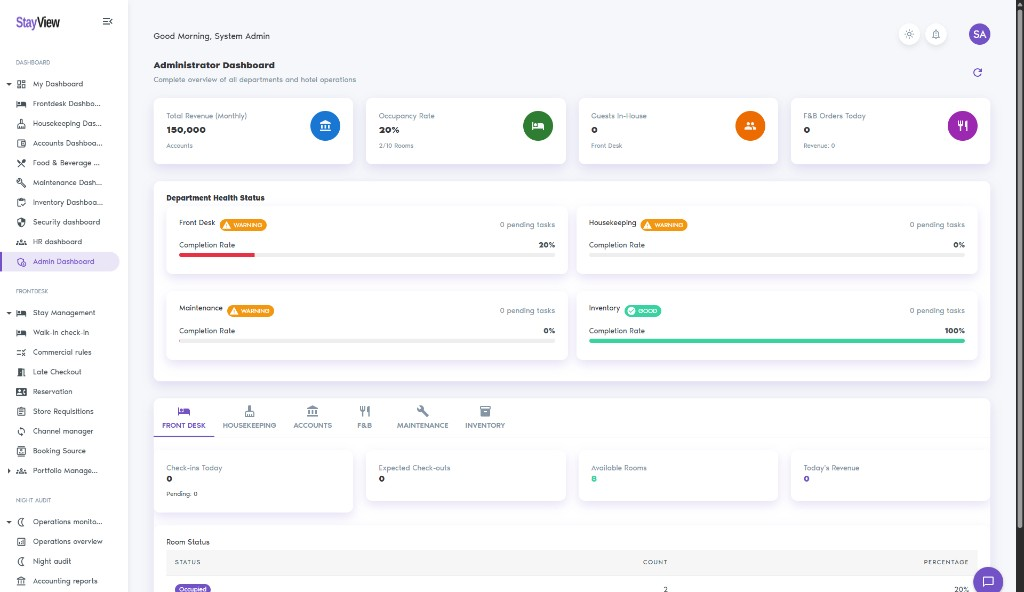
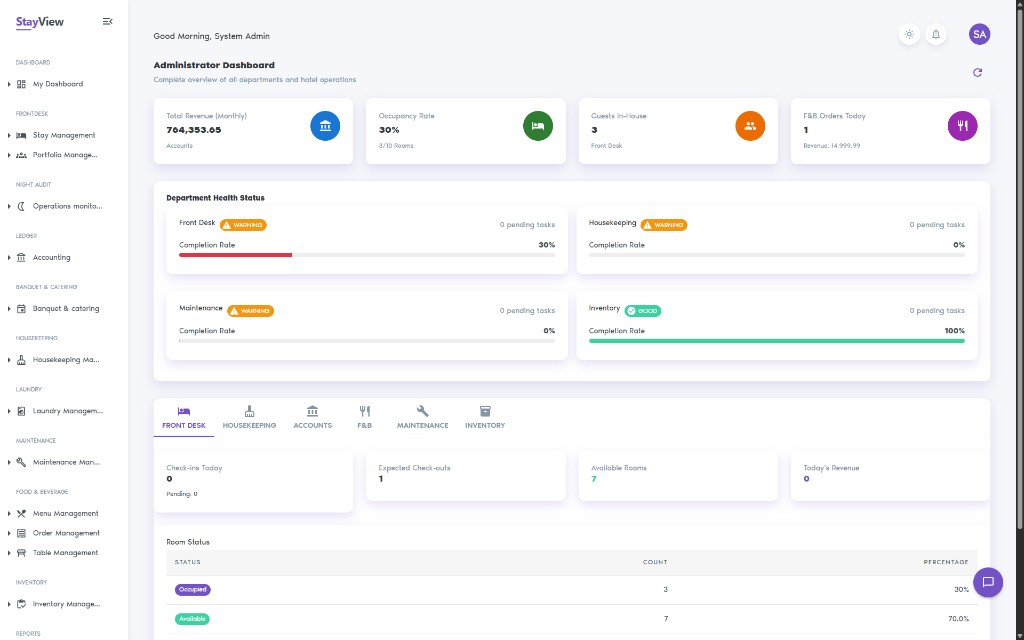
Update admin dashboard screenshot and enhance styling for product stack and hero components
- Replaced the admin dashboard screenshot with a new version for better visual representation.
- Introduced new CSS classes for the hero shot and product stack to improve layout and responsiveness.
- Adjusted dimensions of the admin dashboard image for consistency across components.
- Enhanced the ProductShot component to support image quality settings for better performance.

diff --git a/src/components/home/PlatformChapters.tsx b/src/components/home/PlatformChapters.tsx
@@ -1,5 +1,6 @@
 import Image from "next/image";
 import Link from "next/link";
+import type { CSSProperties } from "react";
 import { productUseCases } from "@/lib/content";
 import { ChannelManagerIllustration } from "@/components/svg/ProductIllustrations";
 import { AnimatedHeadline } from "@/components/ui/AnimatedHeadline";
@@ -10,7 +11,7 @@ const productImages = {
     src: "/screenshots/admin-dashboard.png",
     alt: "StayView administrator dashboard",
     width: 1024,
-    height: 592,
+    height: 640,
   },
   outlet: {
     src: "/screenshots/outlet-pos-bar45.png",
@@ -27,6 +28,8 @@ const productImages = {
 } as const;
 
 export function PlatformChapters() {
+  const total = productUseCases.length;
+
   return (
     <section className="border-b border-border">
       <div className="surface-grid border-b border-border py-20 sm:py-24">
@@ -52,38 +55,36 @@ export function PlatformChapters() {
         </div>
       </div>
 
-      <div>
+      <div className="product-stack">
         {productUseCases.map((product, index) => {
           const photo =
             product.id in productImages
               ? productImages[product.id as keyof typeof productImages]
               : null;
-          const reversed = index % 2 === 1;
-          const ink = index % 2 === 0;
           const chapter = String(index + 1).padStart(2, "0");
-          const textVariant = reversed ? "right" : "left";
-          const frameVariant = reversed ? "left" : "right";
+          const ink = index % 2 === 0;
+          const isLast = index === total - 1;
 
           return (
             <div
               key={product.id}
-              className={`border-b border-border ${
-                ink ? "bg-background" : "bg-surface"
-              }`}
+              className="product-stack-panel"
+              style={
+                {
+                  zIndex: index + 1,
+                  ["--stack-offset"]: `${index * 0.55}rem`,
+                } as CSSProperties
+              }
             >
-              <article className="mx-auto max-w-6xl px-4 py-16 sm:px-6 sm:py-24">
-                <div
-                  className={`grid items-center gap-12 lg:grid-cols-2 lg:gap-20 ${
-                    reversed ? "lg:[direction:rtl]" : ""
-                  }`}
-                >
-                  <Reveal
-                    variant={textVariant}
-                    stagger
-                    className={reversed ? "lg:[direction:ltr]" : ""}
-                  >
-                    <div className="stagger-item flex items-baseline gap-4">
-                      <span className="chapter-mark font-display text-5xl font-bold text-brand/20 sm:text-6xl">
+              <article
+                className={`product-stack-card ${
+                  ink ? "bg-background" : "bg-surface"
+                } ${isLast ? "product-stack-card-last" : ""}`}
+              >
+                <div className="mx-auto grid max-w-6xl items-center gap-10 px-4 py-12 sm:px-6 sm:py-16 lg:grid-cols-2 lg:gap-16 lg:py-20">
+                  <div>
+                    <div className="flex items-baseline gap-4">
+                      <span className="font-display text-5xl font-bold text-brand/20 sm:text-6xl">
                         {chapter}
                       </span>
                       <div>
@@ -97,21 +98,24 @@ export function PlatformChapters() {
                         ) : null}
                       </div>
                     </div>
-                    <h3 className="stagger-item mt-6 font-display text-2xl font-bold tracking-tight sm:text-4xl">
+                    <h3 className="mt-6 font-display text-2xl font-bold tracking-tight sm:text-4xl">
                       {product.tagline}
                     </h3>
-                    <p className="stagger-item mt-4 text-base leading-relaxed text-muted sm:text-lg">
+                    <p className="mt-4 text-base leading-relaxed text-muted sm:text-lg">
                       {product.description}
                     </p>
-                    <ul className="stagger-item mt-8 space-y-3.5">
+                    <ul className="mt-8 space-y-3.5">
                       {product.useCases.slice(0, 5).map((item) => (
-                        <li key={item} className="flex items-start gap-3 text-sm sm:text-[0.95rem]">
+                        <li
+                          key={item}
+                          className="flex items-start gap-3 text-sm sm:text-[0.95rem]"
+                        >
                           <span className="mt-2 h-px w-4 shrink-0 bg-brand" />
                           <span>{item}</span>
                         </li>
                       ))}
                     </ul>
-                    <div className="stagger-item mt-10 flex flex-wrap items-center gap-5">
+                    <div className="mt-10 flex flex-wrap items-center gap-5">
                       <Link href={product.ctaHref} className="btn-primary">
                         {product.ctaLabel}
                       </Link>
@@ -124,38 +128,29 @@ export function PlatformChapters() {
                         </Link>
                       ) : null}
                     </div>
-                  </Reveal>
+                  </div>
 
-                  <Reveal
-                    variant={frameVariant}
-                    delayMs={140}
-                    className={reversed ? "lg:[direction:ltr]" : ""}
-                  >
-                    <div className="frame-stage">
-                      <div
-                        className="absolute -inset-3 rounded-xl bg-brand/8 sm:-inset-4"
-                        aria-hidden
-                      />
-                      {photo ? (
-                        <div className="frame-reveal frame-shine relative">
-                          <div className="shot-frame-light relative">
-                            <Image
-                              src={photo.src}
-                              alt={photo.alt}
-                              width={photo.width}
-                              height={photo.height}
-                              className="h-auto w-full object-cover object-top"
-                              sizes="(max-width: 1024px) 100vw, 560px"
-                            />
-                          </div>
-                        </div>
-                      ) : (
-                        <div className="frame-reveal frame-shine relative">
-                          <ChannelManagerIllustration className="relative w-full overflow-hidden rounded-xl border border-border" />
-                        </div>
-                      )}
-                    </div>
-                  </Reveal>
+                  <div className="relative">
+                    <div
+                      className="absolute -inset-3 rounded-xl bg-brand/8 sm:-inset-4"
+                      aria-hidden
+                    />
+                    {photo ? (
+                      <div className="shot-frame-light relative">
+                        <Image
+                          src={photo.src}
+                          alt={photo.alt}
+                          width={photo.width}
+                          height={photo.height}
+                          quality={90}
+                          className="h-auto w-full object-cover object-top"
+                          sizes="(max-width: 1024px) 100vw, 560px"
+                        />
+                      </div>
+                    ) : (
+                      <ChannelManagerIllustration className="relative w-full overflow-hidden rounded-xl border border-border" />
+                    )}
+                  </div>
                 </div>
               </article>
             </div>

diff --git a/src/components/home/Hero.tsx b/src/components/home/Hero.tsx
@@ -1,8 +1,12 @@
 import Link from "next/link";
 import { ProductShot } from "@/components/home/ProductShot";
-import { productScreenshots } from "@/lib/content";
 
-const heroShot = productScreenshots.find((s) => s.id === "admin-dashboard")!;
+const heroShot = {
+  src: "/screenshots/admin-dashboard.png",
+  alt: "StayView administrator dashboard with revenue, occupancy, and department health",
+  width: 1024,
+  height: 640,
+} as const;
 
 export function Hero() {
   return (
@@ -35,21 +39,22 @@ export function Hero() {
           </div>
         </div>
 
-        <div className="animate-scale-in animate-delay-2 relative mx-auto mt-14 w-full max-w-5xl lg:mt-16">
+        <div className="animate-fade-up animate-delay-2 relative mx-auto mt-12 w-full max-w-6xl sm:mt-14 lg:mt-16">
           <div
-            className="pointer-events-none absolute inset-x-[-8%] bottom-0 top-[20%] bg-[radial-gradient(ellipse_at_center,rgba(155,127,224,0.35),transparent_65%)]"
+            className="pointer-events-none absolute inset-x-[-6%] -bottom-8 top-[30%] bg-[radial-gradient(ellipse_at_center,rgba(155,127,224,0.4),transparent_68%)]"
             aria-hidden
           />
-          <div className="hero-product frame-shine relative">
+          <div className="hero-shot relative">
             <ProductShot
               src={heroShot.src}
               alt={heroShot.alt}
               width={heroShot.width}
               height={heroShot.height}
               priority
-              variant="dark"
-              className="mx-auto w-full"
-              sizes="(max-width: 1024px) 94vw, 960px"
+              quality={95}
+              variant="light"
+              className="mx-auto w-full shadow-[0_40px_80px_-24px_rgba(0,0,0,0.65)]"
+              sizes="(max-width: 1024px) 96vw, 1100px"
             />
           </div>
         </div>

diff --git a/src/app/globals.css b/src/app/globals.css
@@ -180,6 +180,73 @@ h3,
   animation: hero-float 7s var(--ease-out) 1.2s infinite alternate;
 }
 
+/* Clear, flat hero screenshot — no perspective warp */
+.hero-shot {
+  position: relative;
+  transform: translate3d(0, 0, 0);
+}
+
+.hero-shot .shot-frame-light {
+  border-color: rgba(255, 255, 255, 0.35);
+  box-shadow:
+    0 0 0 1px rgba(255, 255, 255, 0.08),
+    0 36px 80px -20px rgba(0, 0, 0, 0.55);
+}
+
+/* Sticky product stack — each card covers the previous on scroll */
+.product-stack {
+  position: relative;
+  isolation: isolate;
+  padding: 0 0.75rem 2rem;
+}
+
+@media (min-width: 640px) {
+  .product-stack {
+    padding: 0 1.25rem 3rem;
+  }
+}
+
+.product-stack-panel {
+  position: sticky;
+  top: calc(4.75rem + var(--stack-offset, 0rem));
+  padding-bottom: 1.5rem;
+}
+
+.product-stack-card {
+  position: relative;
+  min-height: calc(100svh - 6.75rem);
+  overflow: hidden;
+  border: 1px solid var(--border);
+  border-radius: 1.25rem;
+  box-shadow:
+    0 -12px 40px -24px rgba(18, 10, 36, 0.22),
+    0 28px 56px -28px rgba(18, 10, 36, 0.3);
+  display: flex;
+  align-items: center;
+}
+
+.product-stack-card-last {
+  box-shadow:
+    0 -12px 40px -24px rgba(18, 10, 36, 0.22),
+    0 28px 56px -28px rgba(18, 10, 36, 0.3);
+}
+
+@media (max-width: 640px) {
+  .product-stack {
+    padding: 0 0.5rem 1.5rem;
+  }
+
+  .product-stack-panel {
+    top: 4.25rem;
+    padding-bottom: 0.85rem;
+  }
+
+  .product-stack-card {
+    min-height: auto;
+    border-radius: 1rem;
+  }
+}
+
 .frame-stage {
   position: relative;
 }
@@ -493,6 +560,10 @@ h3,
   .hero-product,
   .animate-scale-in {
     transform: none !important;
+  }
+
+  .hero-shot {
+    transform: none;
   }
 
   .reveal,

diff --git a/src/components/home/ProductShot.tsx b/src/components/home/ProductShot.tsx
@@ -9,6 +9,7 @@ type ProductShotProps = {
   className?: string;
   sizes?: string;
   variant?: "light" | "dark";
+  quality?: number;
 };
 
 export function ProductShot({
@@ -20,6 +21,7 @@ export function ProductShot({
   className = "",
   sizes = "(max-width: 1024px) 100vw, 560px",
   variant = "light",
+  quality = 85,
 }: ProductShotProps) {
   const dark = variant === "dark";
 
@@ -44,6 +46,7 @@ export function ProductShot({
         width={width}
         height={height}
         priority={priority}
+        quality={quality}
         sizes={sizes}
         className="h-auto w-full"
       />

diff --git a/src/lib/content.ts b/src/lib/content.ts
@@ -332,7 +332,7 @@ export const productScreenshots: ProductScreenshot[] = [
     title: "Admin dashboard",
     caption: "Live KPIs across front desk, F&B, and inventory",
     width: 1024,
-    height: 592,
+    height: 640,
   },
   {
     id: "night-audit",
